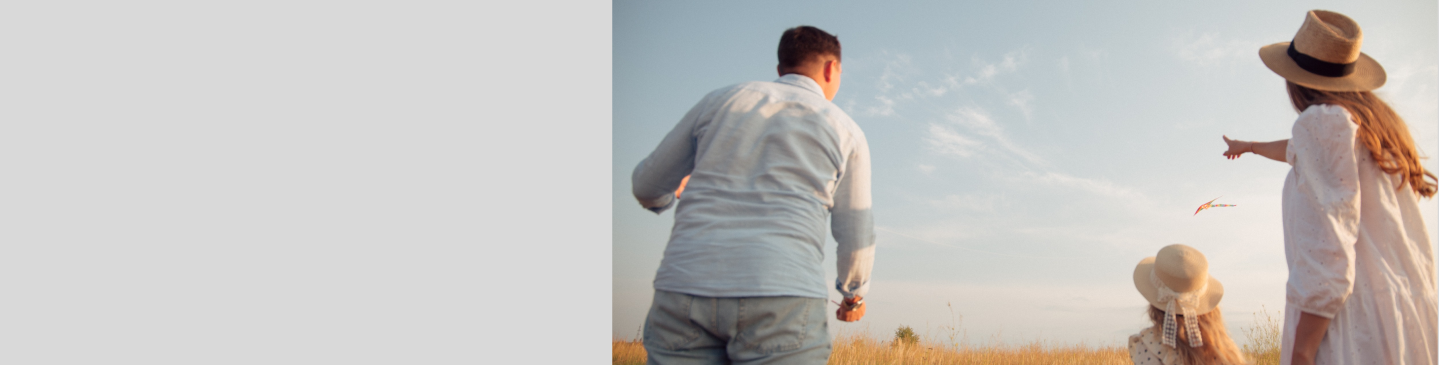
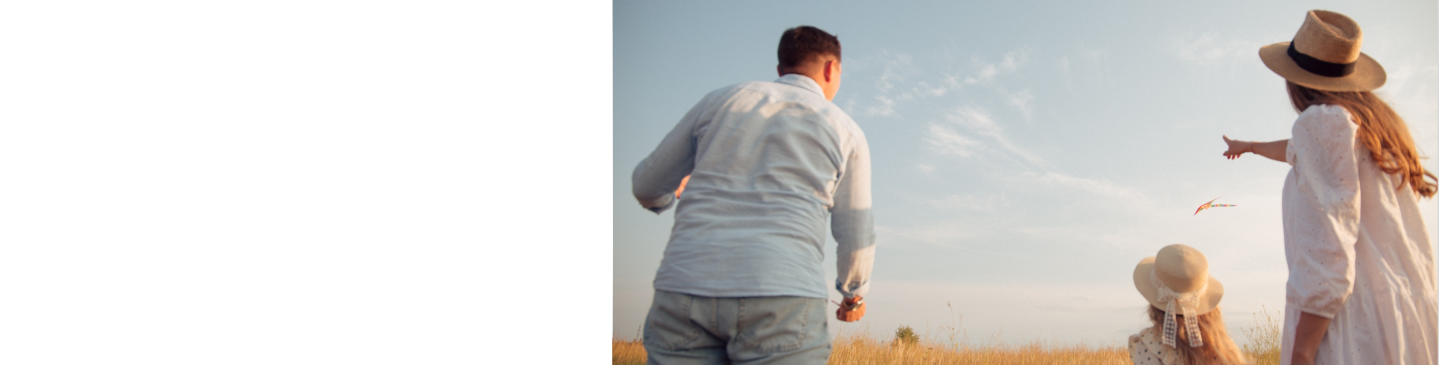
Degradado en header y contactame componentes

diff --git a/src/pages/Inicio/components/Contacto/Contacto.modules.css b/src/pages/Inicio/components/Contacto/Contacto.modules.css
@@ -1,10 +1,20 @@
 .contactame-contain {
   width: 100%;
   height: 400px;
-  background-image: url("https://i.ibb.co/YpV5QH4/contacto-banner.png");
+  background-image: url("https://i.ibb.co/hYNm74K/contacto-banner.png");
   background-repeat: no-repeat;
   background-size: cover;
   padding: 90px 90px;
+  position: relative;
+}
+
+.degrades-contacto {
+  width: 20%;
+  height: 400px;
+  background: linear-gradient(90deg, #FFF 75.21%, rgba(255, 255, 255, 0.10) 90.49%, rgba(255, 255, 255, 0.00) 99.85%);
+  position: absolute;
+  left: 30%;
+  top: 0;
 }
 
 .contactame-contain h1 {

diff --git a/src/pages/Inicio/components/Header/Header.tsx b/src/pages/Inicio/components/Header/Header.tsx
@@ -1,10 +1,11 @@
 import imagenBanner from "../../../../assets/images/perfil-banner.png";
 import icono_contacto from "../../../../assets/images/icono-contacto.png";
-import "./Header.modules.css"
+import "./Header.modules.css";
 
 const Header = () => {
   return (
     <header className="header-contain">
+      <div className="degrades"></div>
       <div className="imagen-contain">
         <img src={imagenBanner} alt="Fernando Imagen de Perfil" />
       </div>

diff --git a/src/pages/Inicio/components/Header/Header.modules.css b/src/pages/Inicio/components/Header/Header.modules.css
@@ -1,7 +1,18 @@
 .header-contain {
   width: 100%;
   display: flex;
+  position: relative;
 }
+
+.degrades {
+  width: 35%; /* Ancho del degradado (ajusta según tus necesidades) */
+  height: 100%;
+  background: linear-gradient(to left, #E9ECF0 0%, transparent 40%);
+  position: absolute;
+  left: 0;
+}
+
+
 
 .imagen-contain {
   width: 35%;

diff --git a/src/pages/Inicio/components/Contacto/Contacto.tsx b/src/pages/Inicio/components/Contacto/Contacto.tsx
@@ -5,6 +5,7 @@ import "./Contacto.modules.css"
 const Contacto = () => {
   return (
     <section className="contactame-contain">
+        <div className='degrades-contacto'></div>
         <div className="contactame">
             <h1>Contactame</h1>
             <p>Si tenes alguna consulta, no dudes en contactarme.</p>
